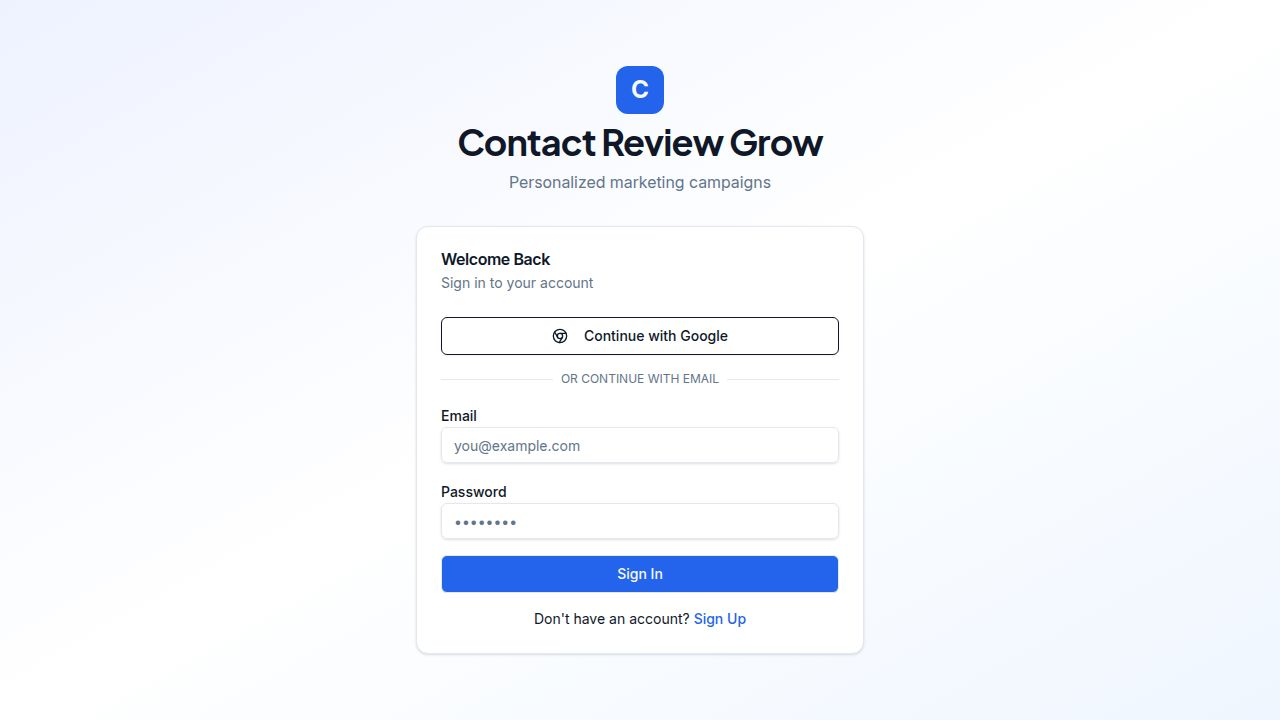
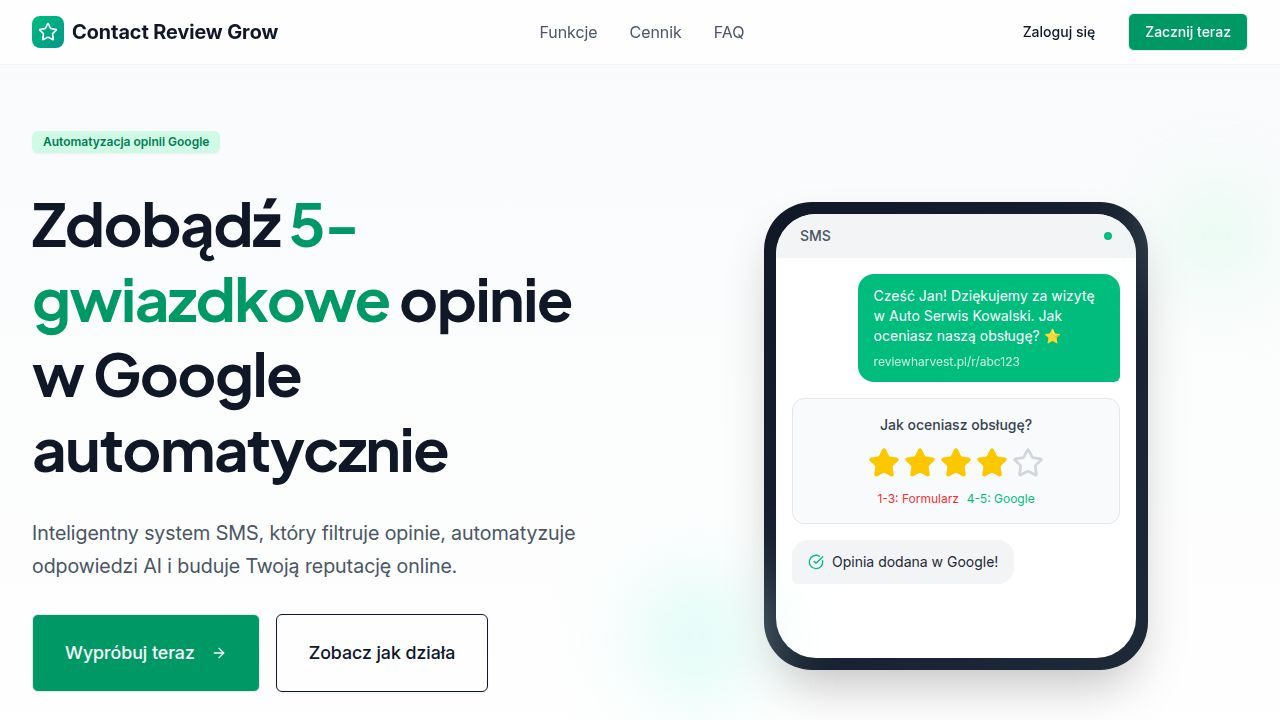
Fix SMS links and isolate user Google profiles
Refactor SMS campaign link generation to use internal tracking slugs and clear query cache on logout to prevent cross-user data leakage.

Replit-Commit-Author: Agent
Replit-Commit-Session-Id: aeef200c-fc18-4004-9473-0371e1f1d60f
Replit-Commit-Checkpoint-Type: intermediate_checkpoint
Replit-Commit-Event-Id: 0f7766d5-aeda-4373-b73b-7a034f4e229f
Replit-Commit-Screenshot-Url: https://storage.googleapis.com/screenshot-production-us-central1/98d18cde-7796-4d05-9e53-f6e6535f562c/aeef200c-fc18-4004-9473-0371e1f1d60f/QgEI350
Replit-Helium-Checkpoint-Created: true

diff --git a/server/routes.ts b/server/routes.ts
@@ -501,8 +501,16 @@ export async function registerRoutes(
         : 'http://localhost:5000';
 
       for (const client of clients) {
-        // Generate unique tracking link for this client
-        const trackingLink = client.trackingSlug ? `${baseUrl}/r/${client.trackingSlug}` : googleReviewLink;
+        // Ensure client has a tracking slug (generate if missing for older clients)
+        let trackingSlug = client.trackingSlug;
+        if (!trackingSlug) {
+          trackingSlug = generateTrackingSlug();
+          // Update client with new tracking slug
+          await db.collection('clients').doc(client.id).update({ trackingSlug });
+        }
+        
+        // Always use short tracking link - never include external URLs in SMS (SMSAPI blocks them)
+        const trackingLink = `${baseUrl}/r/${trackingSlug}`;
         
         let personalizedMessage = campaign.message
           .replace(/\{\{name\}\}/g, client.name || 'Customer')

diff --git a/client/src/contexts/AuthContext.tsx b/client/src/contexts/AuthContext.tsx
@@ -2,6 +2,7 @@ import { createContext, useContext, useState, useEffect, ReactNode } from 'react
 import { User } from 'firebase/auth';
 import { onAuthChange, signOut as firebaseSignOut } from '@/lib/firebase';
 import { syncUser } from '@/lib/api';
+import { queryClient } from '@/lib/queryClient';
 
 interface AuthContextType {
   user: User | null;
@@ -51,6 +52,8 @@ export function AuthProvider({ children }: { children: ReactNode }) {
     setUser(null);
     setToken(null);
     setIsAdmin(false);
+    // Clear all cached data to ensure no user data leaks between sessions
+    queryClient.clear();
   };
 
   return (

diff --git a/replit.md b/replit.md
@@ -108,6 +108,10 @@ Run `npm run dev` to start the development server on port 5000.
 - **Contact Review Grow** = Official business name (Bartosz Straszewski, NIP: 6472614652) used everywhere in the platform
 
 ## Recent Changes
+- 2026-01-21: Fixed SMSAPI link rejection and Google Business Profile isolation
+  - Campaign sending now generates tracking slugs for older clients that don't have them
+  - Always uses short /r/:slug tracking links instead of full Google URLs (SMSAPI blocks external links)
+  - Added query cache clearing on logout to prevent user data leaking between sessions
 - 2026-01-13: Added legal policy pages (Polityka Prywatności, Regulamin, Polityka Cookies)
   - Routes: /polityka-prywatnosci, /regulamin, /polityka-cookies
   - Full policy content from official documents
